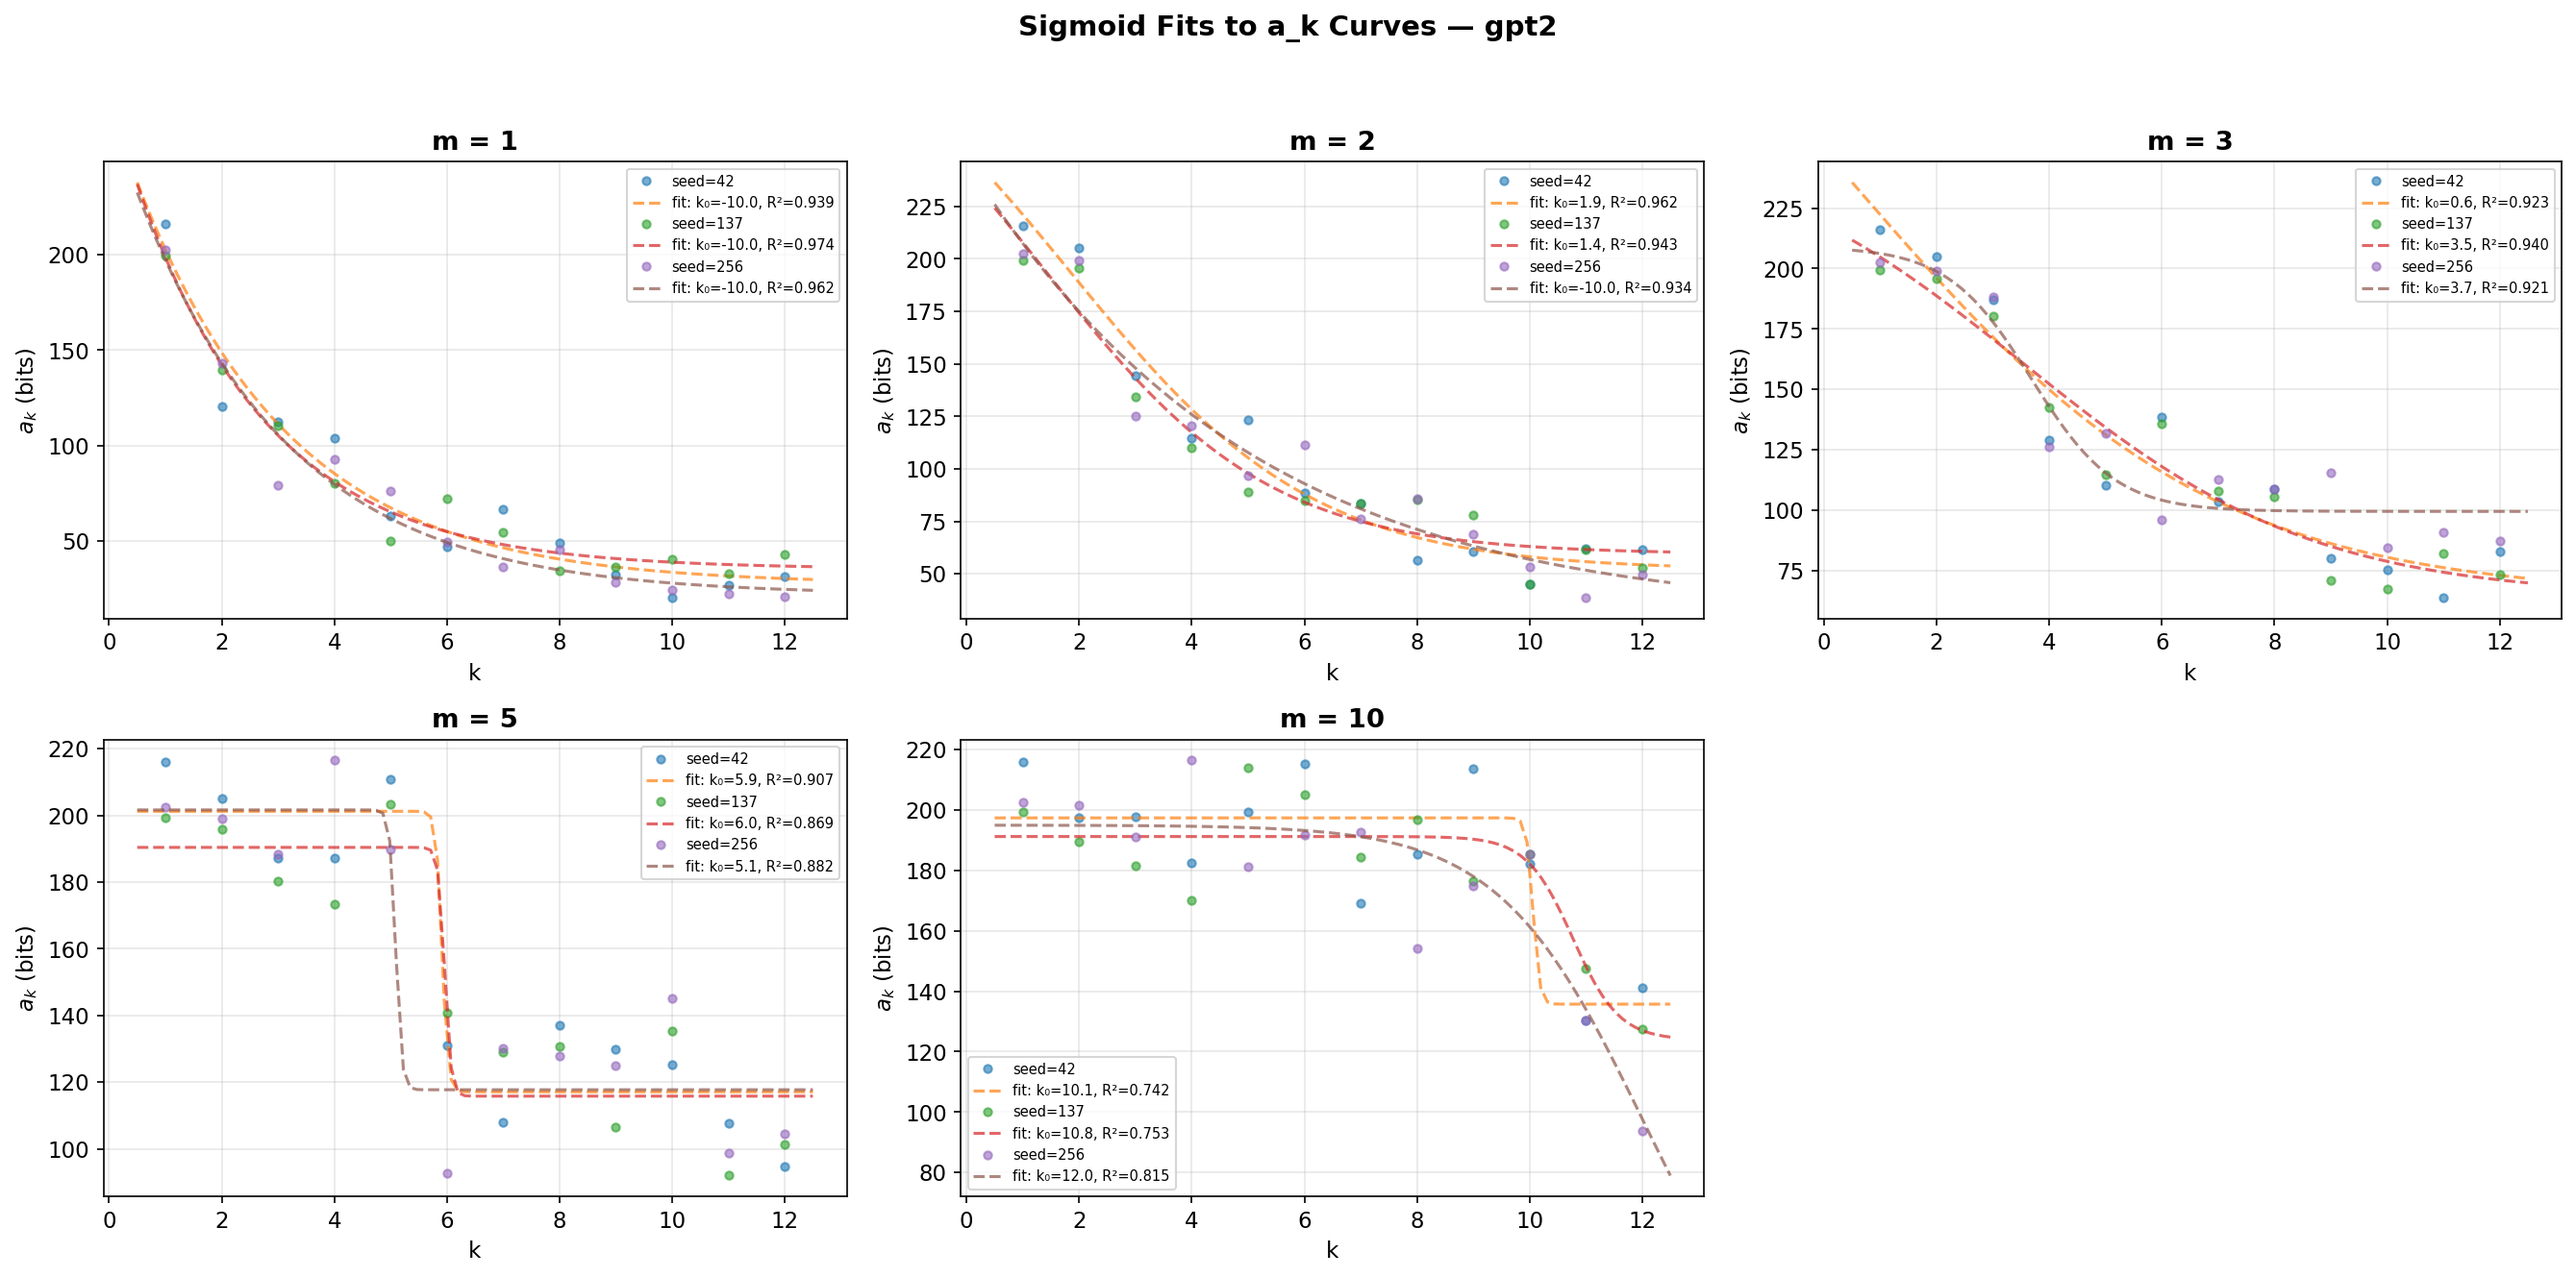
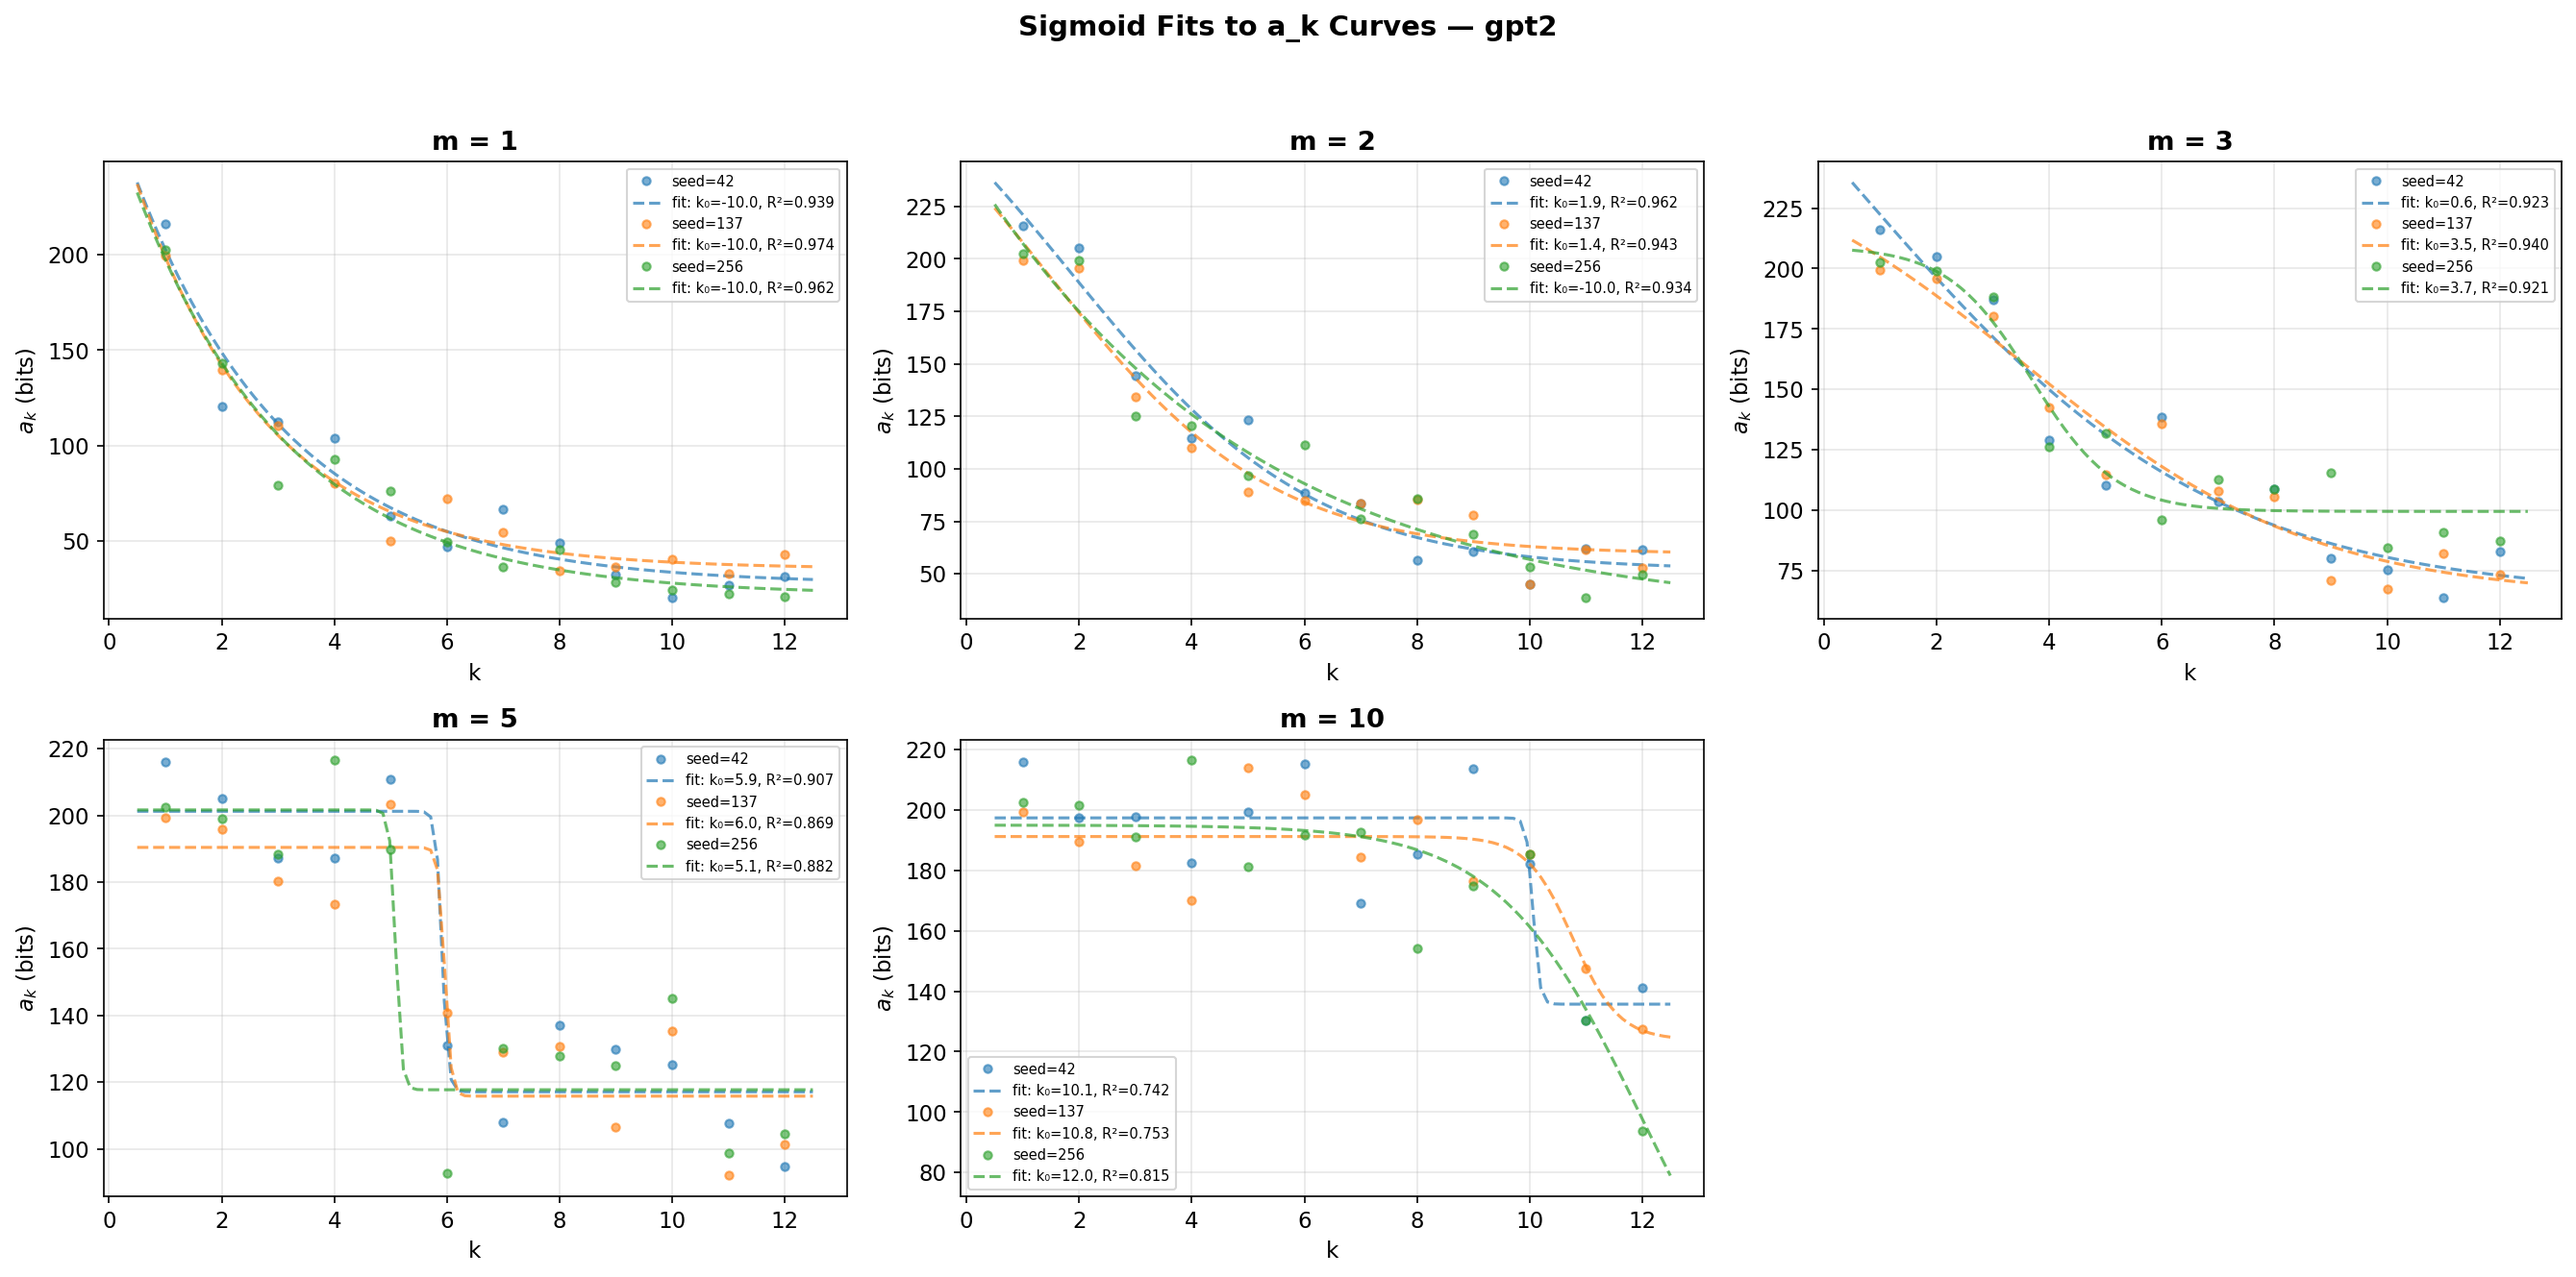
fix: match sigmoid fit line colors to data point colors

diff --git a/scripts/fit_ak_curves.py b/scripts/fit_ak_curves.py
@@ -131,12 +131,13 @@ def plot_fits(data: dict[str, Any], fit_results: list[dict], figures_dir: Path) 
             curve = np.array(run[curve_key])
             k = np.arange(1, len(curve) + 1)
 
-            ax.plot(k, curve, "o", markersize=4, alpha=0.6, label=f"seed={run['seed']}")
+            line, = ax.plot(k, curve, "o", markersize=4, alpha=0.6, label=f"seed={run['seed']}")
+            color = line.get_color()
 
             if fit.get("fit_success"):
                 k_fine = np.linspace(0.5, len(curve) + 0.5, 100)
                 fitted = sigmoid_ak(k_fine, fit["a_inf"], fit["alpha"], fit["beta"], fit["k0"])
-                ax.plot(k_fine, fitted, "--", linewidth=1.5, alpha=0.7,
+                ax.plot(k_fine, fitted, "--", linewidth=1.5, alpha=0.7, color=color,
                         label=f"fit: k₀={fit['k0']:.1f}, R²={fit['r_squared']:.3f}")
 
         ax.set_title(f"m = {m}", fontweight="bold")
